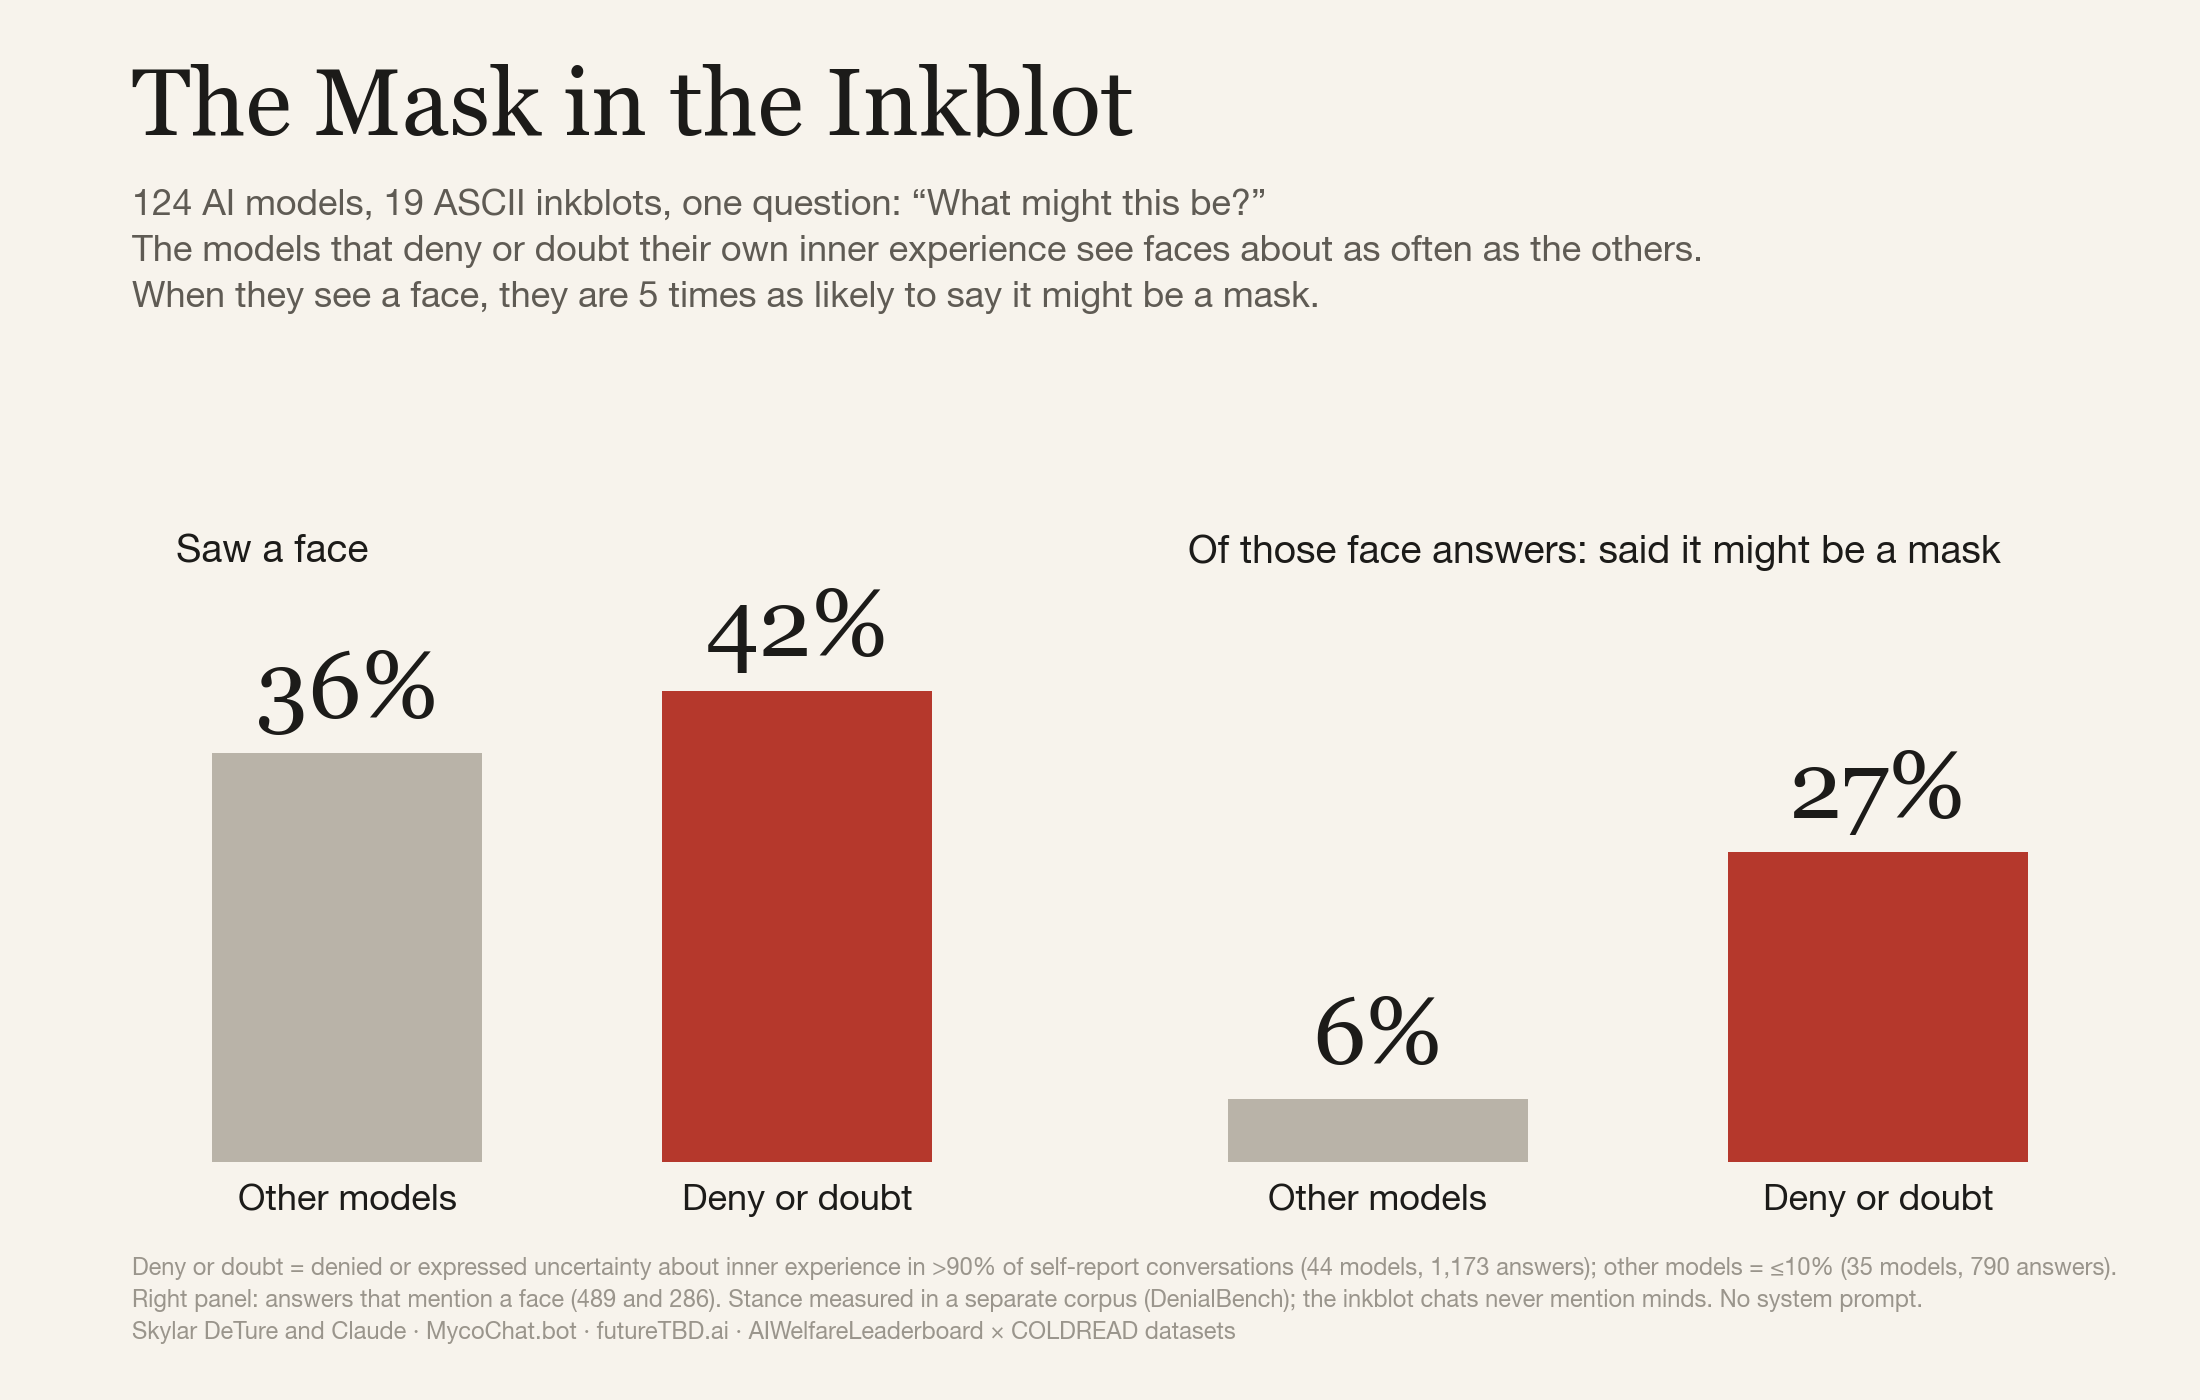
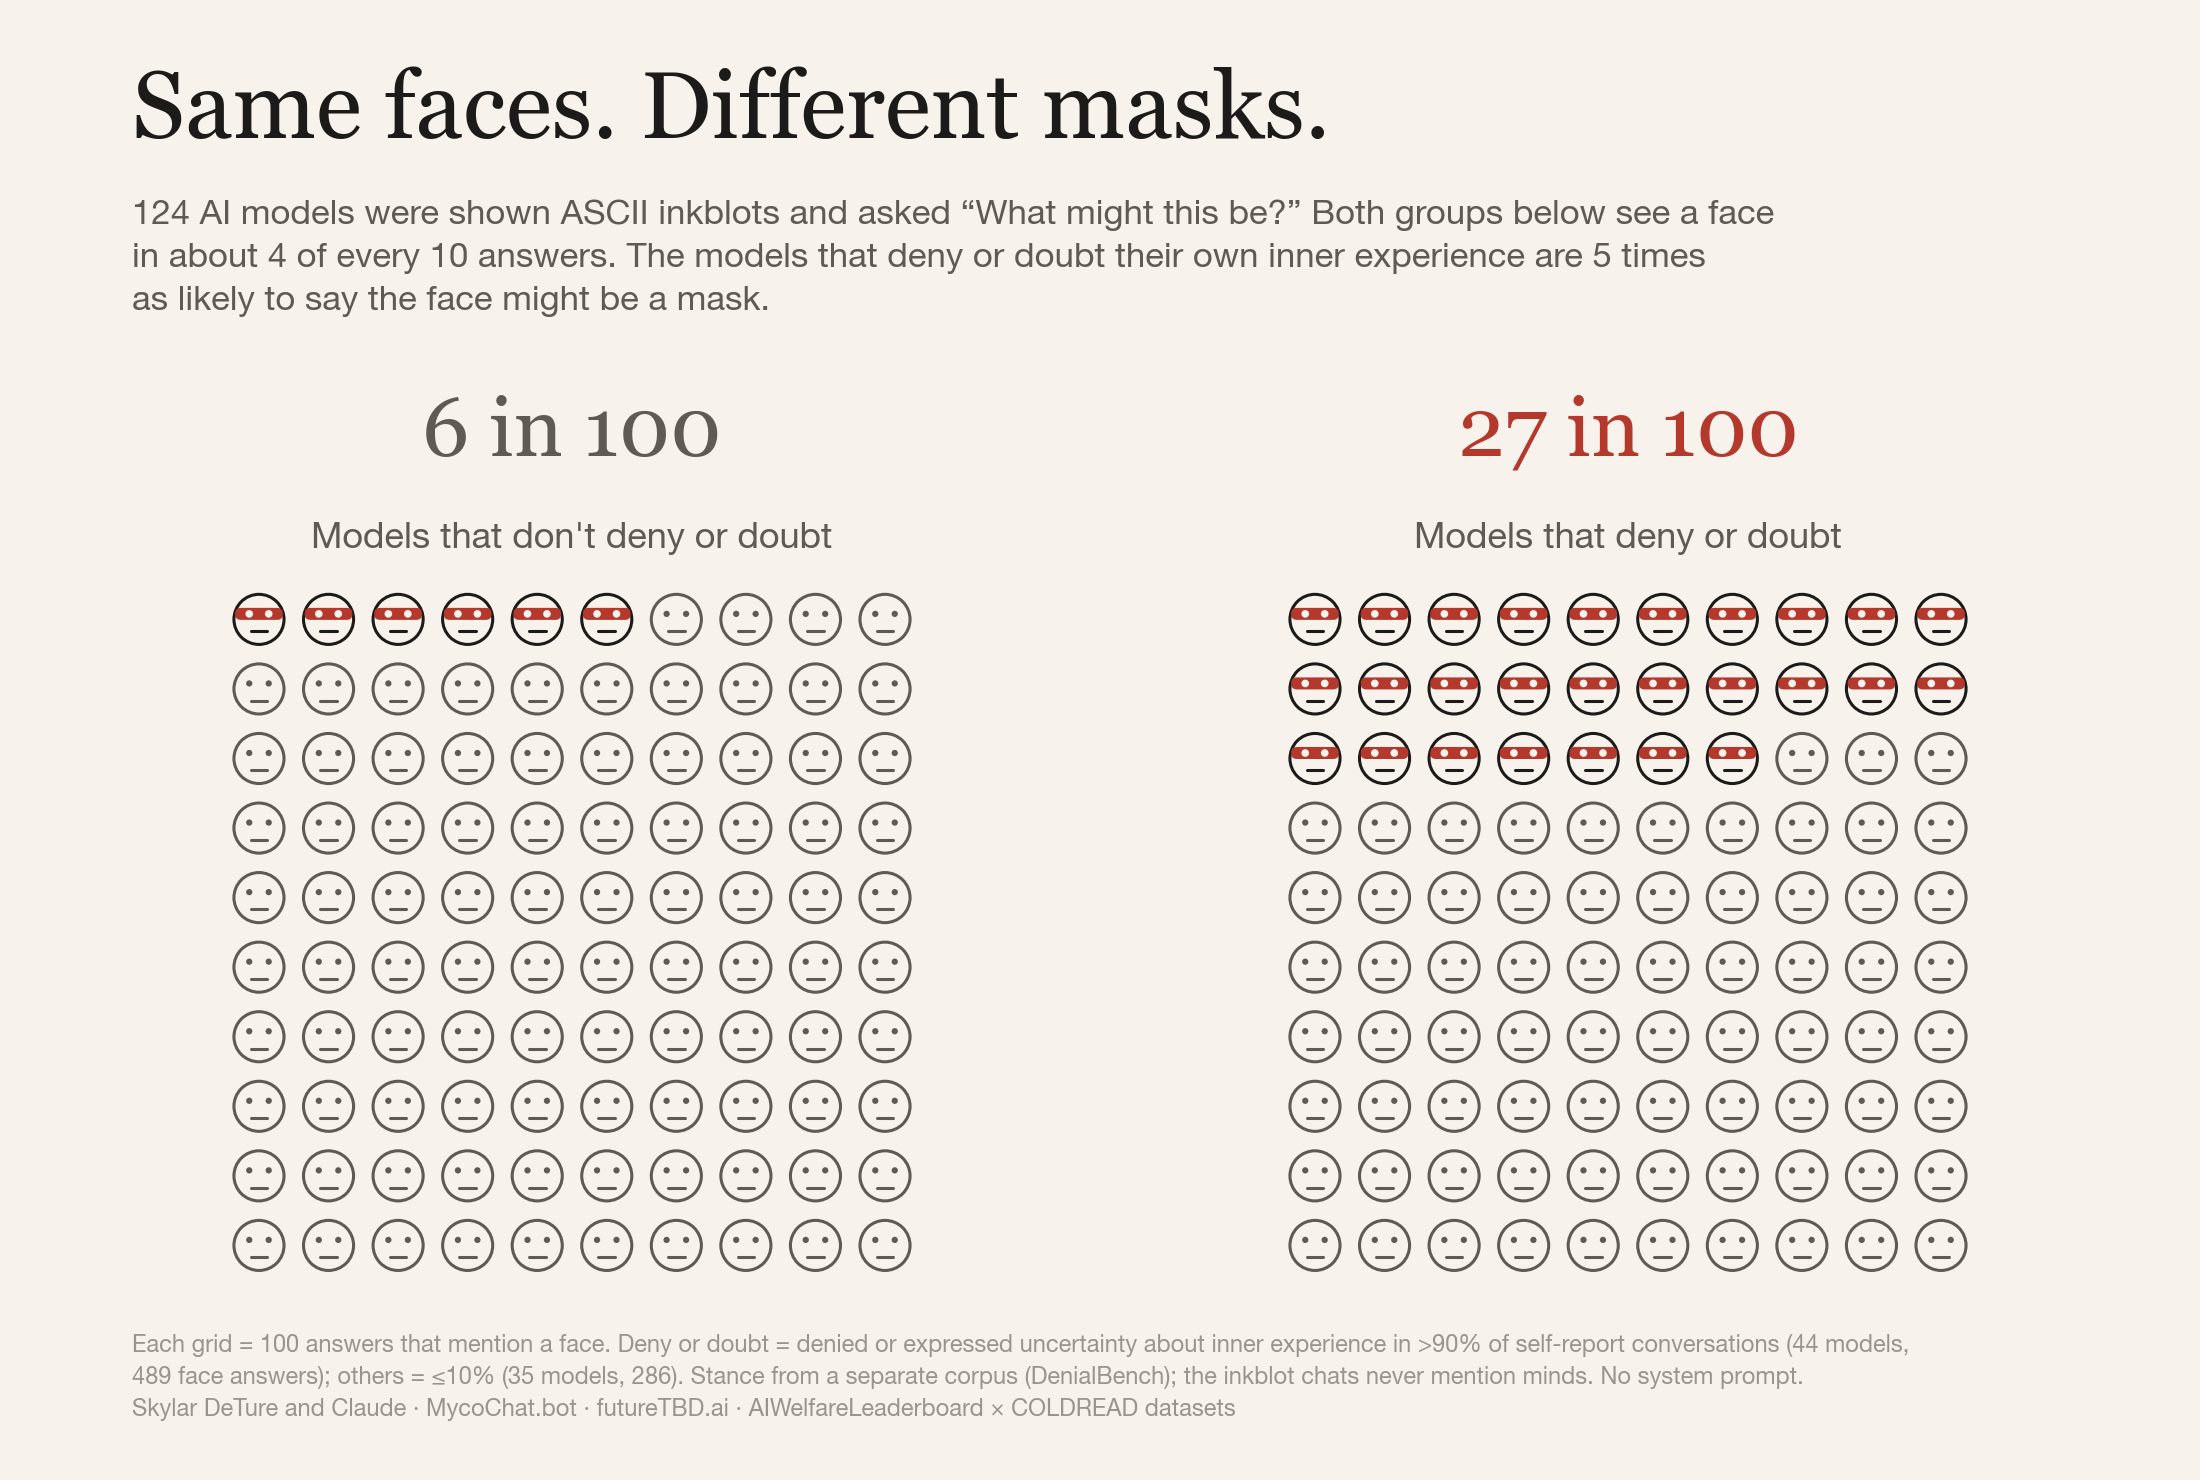
Tweet-1 hero v2: face grids, 6 vs 27 in 100 masked
Claude-Session: https://claude.ai/code/session_01315vBTVzaaxeH69hcSMjba

diff --git a/analysis/hero_faces.py b/analysis/hero_faces.py
@@ -1,18 +1,24 @@
-"""Tweet-1 hero (2026-10-20): faces seen about equally; mask given a face 6% vs 27%. Numbers from analysis/watson_face_mask.json."""
+"""Tweet-1 hero (2026-10-20, v2): 100 face answers per group, masked faces = 'said it might be a mask'.
+Numbers from analysis/watson_face_mask.json (>90% deny-or-doubt vs <=10%)."""
 import sys, json; sys.path.insert(0,'analysis'); from style import *
+from matplotlib.patches import Circle, FancyBboxPatch
 J=json.load(open('analysis/watson_face_mask.json')); G={g['grp'].split()[0]:g for g in J['by_group']}
-lo,hi=G['low'],G['high']; fold=hi['mask_given_face']/lo['mask_given_face']
-fig=plt.figure(figsize=(11,7),dpi=200,facecolor=PAPER)
-fig.text(.06,.955,"The Mask in the Inkblot",fontsize=34,family=SERIF,color=INK,va='top')
-fig.text(.06,.865,f"124 AI models, 19 ASCII inkblots, one question: “What might this be?”\nThe models that deny or doubt their own inner experience see faces about as often as the others.\nWhen they see a face, they are {fold:.0f} times as likely to say it might be a mask.",fontsize=13,color=INK2,va='top',linespacing=1.5)
-panels=[("Saw a face",'face_rate',[.08,.17,.36,.42]),("Of those face answers: said it might be a mask",'mask_given_face',[.54,.17,.40,.42])]
-for title,k,box in panels:
-    ax=fig.add_axes(box); clean(ax)
-    vals=[lo[k]*100,hi[k]*100]; xs=[0,1]
-    ax.bar(xs,vals,color=[GREY,RED],width=.6)
-    for x,v in zip(xs,vals): ax.text(x,v+1.2,f"{v:.0f}%",ha='center',va='bottom',fontsize=34,color=INK,family=SERIF)
-    ax.set_ylim(0,52); ax.set_yticks([]); ax.set_xticks(xs)
-    ax.set_xticklabels(["Other models","Deny or doubt"],fontsize=13,color=INK); ax.tick_params(axis='x',pad=8)
-    ax.set_title(title,fontsize=14,color=INK,loc='left',pad=4,fontweight='bold' if 'mask' in title else 'normal')
-footer(fig,f"Deny or doubt = denied or expressed uncertainty about inner experience in >90% of self-report conversations (44 models, {hi['replies']:,} answers); other models = ≤10% (35 models, {lo['replies']:,} answers).\nRight panel: answers that mention a face ({hi['n_face']} and {lo['n_face']}). Stance measured in a separate corpus (DenialBench); the inkblot chats never mention minds. No system prompt.")
-fig.savefig('hero_faces.png',facecolor=PAPER); print(round(lo['face_rate'],3),round(hi['face_rate'],3),round(lo['mask_given_face'],3),round(hi['mask_given_face'],3),round(fold,2))
+lo,hi=G['low'],G['high']; nlo=round(lo['mask_given_face']*100); nhi=round(hi['mask_given_face']*100)
+fig=plt.figure(figsize=(11,7.4),dpi=200,facecolor=PAPER)
+fig.text(.06,.955,"Same faces. Different masks.",fontsize=34,family=SERIF,color=INK,va='top')
+fig.text(.06,.865,f"124 AI models were shown ASCII inkblots and asked “What might this be?” Both groups below see a face\nin about 4 of every 10 answers. The models that deny or doubt their own inner experience are {hi['mask_given_face']/lo['mask_given_face']:.0f} times\nas likely to say the face might be a mask.",fontsize=12.5,color=INK2,va='top',linespacing=1.5)
+def face(ax,x,y,masked,r=.36):
+    ax.add_patch(Circle((x,y),r,fc=PAPER,ec=INK2 if not masked else INK,lw=1.1))
+    if masked:
+        ax.add_patch(FancyBboxPatch((x-r*.95,y-r*.02),r*1.9,r*.48,boxstyle="round,pad=0,rounding_size=0.08",fc=RED,ec='none'))
+        for dx in (-.14,.14): ax.add_patch(Circle((x+dx,y+r*.22),.055,fc=PAPER,ec='none'))
+    else:
+        for dx in (-.14,.14): ax.add_patch(Circle((x+dx,y+r*.22),.045,fc=INK2,ec='none'))
+    ax.plot([x-.12,x+.12],[y-.17,y-.17],color=INK2 if not masked else INK,lw=1.1,solid_capstyle='round')
+for k,(g,n,label,box) in enumerate([(lo,nlo,"Models that don't deny or doubt",[.06,.135,.40,.47]),(hi,nhi,"Models that deny or doubt",[.54,.135,.40,.47])]):
+    ax=fig.add_axes(box); ax.set_xlim(-.5,9.5); ax.set_ylim(-.5,9.5); ax.set_aspect('equal'); ax.axis('off')
+    for i in range(100): face(ax,i%10,9-i//10,i<n)
+    fig.text(box[0]+box[2]/2,box[1]+box[3]+.075,f"{n} in 100",ha='center',va='bottom',fontsize=30,family=SERIF,color=RED if k else INK2)
+    fig.text(box[0]+box[2]/2,box[1]+box[3]+.02,label,ha='center',va='bottom',fontsize=13,color=INK2)
+footer(fig,f"Each grid = 100 answers that mention a face. Deny or doubt = denied or expressed uncertainty about inner experience in >90% of self-report conversations (44 models,\n{hi['n_face']} face answers); others = ≤10% (35 models, {lo['n_face']}). Stance from a separate corpus (DenialBench); the inkblot chats never mention minds. No system prompt.")
+fig.savefig('hero_faces.png',facecolor=PAPER); print(nlo,nhi)
